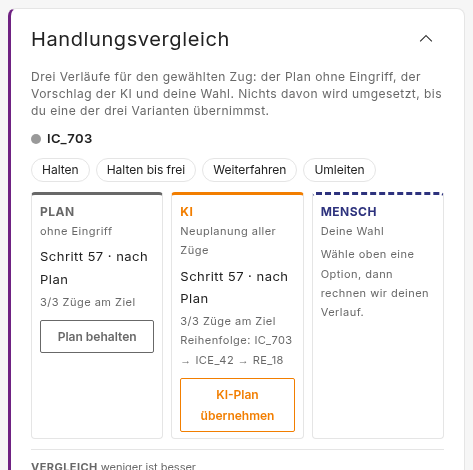
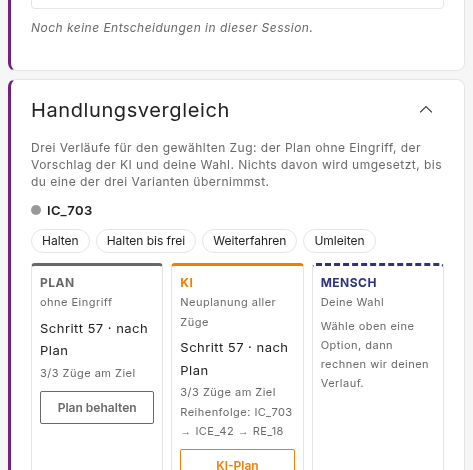
docs(plans): retake the after pictures with the reflection in the decision log.
After pictures 1-4, 6 and 7 on plan-b-p01 with the log above
«Handlungsvergleich»; the plan records Q13 revisited (below it, the log was
out of view right after a decision), the S22-S24 results and the steps as
built. The pictures script finds the reflection in either panel and
scrolls an element into view for its picture, then back.

diff --git a/docs/plans/reflection-inline.md b/docs/plans/reflection-inline.md
@@ -16,8 +16,8 @@
 > revisited on 2026-11-07. Requirements 9-11 (the reflection moves from
 > «Handlungsvergleich» into the decision log, renamed «Entscheidungsprotokoll
 > und Reflexion», in the right column) added on 2026-11-09 by the maintainer,
-> Q13 on them decided the same day (D20-D22), planned as S22-S24; no open
-> questions (§8).
+> Q13 on them decided the same day (D20-D22; Q13 revisited), built in
+> 044bd0b (S22, S23) with the pictures in S24; no open questions (§8).
 > Issue [#160](https://github.com/flatland-association/flatland-ui-hub/issues/160)
 > ("Reflexions Overlay soll Szenario nicht pausieren", @CleverManu), with the
 > requirements as edited on 2026-11-05 ("Beschreibung oben angepasst"). Branch
@@ -68,7 +68,10 @@
 | S20, 18 | Code comments point at the plan's sections and decisions, not at the issue or its findings | docs | low | ba64e47 |
 | — | Retake the after pictures with all questions and Plan B's log open, and record S14-S20 as built | docs | low | 473e9e8, 1d207f7 |
 | S21, 25 | The plan, the logging doc and the code this PR adds say ZWL, not Zug-Weg; the logged view type `zug-weg-diagramm` stays and is named as the ZWL's (#173, D19) | docs | low | 6cb438b |
-| — | Record D19 and the check against #173's kept ids | docs | low | the commit that adds this row |
+| — | Record D19 and the check against #173's kept ids | docs | low | 692e4c7 |
+| — | Plan S22-S24 for requirements 9-11 (Q13), resolve findings 25 and 26, record 27 | docs | low | 3d18bcc |
+| S22, S23 | The reflection is asked in «Entscheidungsprotokoll und Reflexion», below its entries, not in «Handlungsvergleich»; the log moves to the right column, above «Handlungsvergleich» (Q13 revisited) | feat | medium | 044bd0b |
+| S24 | Retake the after pictures with the reflection in the decision log, record Q13 revisited and the results | docs | low | the commit that adds this row |
 
 S1-S5 and S7 share files and hunks, so they went in as one commit, f977f7c,
 with the message "feat(reflection): ask the reflection in «Handlungsvergleich»
@@ -83,13 +86,10 @@ reflection is shown."
 
 #### Remaining
 
-S22-S24 are open (requirements 9-11, Q13); the follow-ups are not in this PR (§1.3).
+No open steps; the follow-ups are not in this PR (§1.3).
 
 | ID | Description | Category | Severity | Commit message |
 |---|---|---|---|---|
-| S22 | The reflection of a reason tour is asked in the decision log, below its entries, not in «Handlungsvergleich» | feat | medium | feat(reflection): ask the reflection in the decision log, not in «Handlungsvergleich». |
-| S23 | The decision log moves to the right column, below «Handlungsvergleich», titled «Entscheidungsprotokoll und Reflexion» | feat | medium | feat(layout): move the decision log to the right column as «Entscheidungsprotokoll und Reflexion». |
-| S24 | Retake the after pictures with the reflection in the log | docs | low | docs(plans): retake the after pictures with the reflection in the decision log. |
 | — | Follow-up: keep a typed but unsent reflection when switching to another one | feat | low | — |
 | — | Follow-up: require a reason chip for «Nein» too (decided against for now) | feat | low | — |
 | — | Follow-up: show open reflections in a replay | feat | low | — |
@@ -184,17 +184,17 @@ Reused concepts:
 |---|---|---|---|---|
 | `SessionStore` (rationale part) | Holds the decisions that wait for a reason and records the reason on the decision. Not where the reason is asked, and not which panel shows it. | 🟨 modified: in reason tours keeps every open reflection, not one; reopens one by decision; stamps when it was answered; asks only where a place can show it (S10). | – | – |
 | `OperatorModelBridge` | Reports decisions to the operator model once their reflection is settled. Not where a reflection is asked or shown. | 🟨 modified: holds back every open decision, not only the shown one (finding 1). | – | – |
-| `ProposalCompareComponent` | Compares plan, AI and own choice for a train and applies one. Not where past decisions are listed (the decision log). | 🟨 modified: new title; showed the open reflection at its top in a tour that asks for reasons (S3), planned (S22, D20): no longer, the log does. | <img src="reflection-inline/before-3-panel.png" width="260"> | <img src="reflection-inline/after-3-panel.png" width="260"> |
+| `ProposalCompareComponent` | Compares plan, AI and own choice for a train and applies one. Not where past decisions are listed (the decision log). | 🟨 modified: new title; showed the open reflection at its top in a tour that asks for reasons (S3), since S22 (D20) no longer, the log does. | <img src="reflection-inline/before-3-panel.png" width="260"> | <img src="reflection-inline/after-3-panel.png" width="260"> |
 | `ReflectionPromptComponent` | Asks the reflection for the shown decision. Not where it is placed. | 🟨 modified: names the course actually taken (§2, related bug); planned (S12, Q12 a): shows all its questions, without «Weitere Fragen», in every reason tour. | <img src="reflection-inline/before-2-dialog-text.png" width="260"> (in the dialog) | <img src="reflection-inline/after-2-dialog-text.png" width="260"> (in the decision panel; in the log from S22) |
-| `DecisionLogPanelComponent` | Lists the run's decisions and, in a tour that asks for reasons, asks the reflection of one of them below the list. Not where a decision is taken (the decision panel). | 🟨 modified: open reflections are marked, counted next to the toggle, and can be reopened; highlighted when finishing is refused; planned (S22, S23): the reflection is answered here, below the entries, and the panel is titled «Entscheidungsprotokoll und Reflexion». | <img src="reflection-inline/before-4-log.png" width="200"> | <img src="reflection-inline/after-4-log.png" width="200"> |
+| `DecisionLogPanelComponent` | Lists the run's decisions and, in a tour that asks for reasons, asks the reflection of one of them below the list. Not where a decision is taken (the decision panel). | 🟨 modified: open reflections are marked, counted next to the toggle, and can be reopened; highlighted when finishing is refused; since S22 and S23: the reflection is answered here, below the entries, and the panel is titled «Entscheidungsprotokoll und Reflexion». | <img src="reflection-inline/before-4-log.png" width="200"> | <img src="reflection-inline/after-4-log.png" width="200"> |
 | `TourReasonDialogComponent` | The modal reflection that pauses the run. | 🟥 removed. | <img src="reflection-inline/before-1-dialog.png" width="320"> | – (removed) |
 | `TourGuideComponent` | Leads through the tour's steps. Not where a scenario is finished in an experiment run (the toolbar). | 🟨 modified: «Reflexion öffnen» reopens the newest open reflection, now in the panel (the log from S22); «Schicht beenden» is refused while reflections are open. | <img src="reflection-inline/before-5-guide.png" width="360"> | <img src="reflection-inline/after-5-guide.png" width="360"> |
 | `AppComponent.finishDemoMode` / `ToolbarComponent` | Finishes a scenario or tour leg from the toolbar. Not where the reflection is asked. | 🟨 modified: refuses while reflections are open, and says so next to the button. | <img src="reflection-inline/before-6-finish.png" width="360"> | <img src="reflection-inline/after-8-toolbar-refused.png" width="360"> (finish refused) |
 | `TourBriefing` / `TourContextService` | Describe a tour and answer what it asks for (reasons, debrief, sandbox, …). Not where the run is paused (`AppComponent`). | 🟨 modified: a tour can ask for the run to pause while a reflection is shown (§4.7). | – | – |
 | `RationaleCaptureComponent` | The short "why?" prompt with reason chips, in the Recommendation panel and the Co-Learning reflection panel, for sessions that are not a reason tour. Not the reflection of a reason tour (`ReflectionPromptComponent`). | 🟨 modified (S8, S9): starts empty for a new decision, and names the course actually taken; it still asks about the latest decision as on `main` (finding 4). | <img src="reflection-inline/before-9-rationale-capture.png" width="220"> | <img src="reflection-inline/after-9-rationale-capture.png" width="220"> |
-| `AppComponent.reflectionPlaceInLayout` | Says whether the active layout has a panel that can show a "why?", expanded or collapsed. Not which one shows it (D15), and not the reflection itself (`SessionStore`). | 🟩 added (S10): a decision asks a "why?" only where the participant can see it; planned (S22): in a reason tour the decision log is the place, not «Handlungsvergleich». | – | –
+| `AppComponent.reflectionPlaceInLayout` | Says whether the active layout has a panel that can show a "why?", expanded or collapsed. Not which one shows it (D15), and not the reflection itself (`SessionStore`). | 🟩 added (S10): a decision asks a "why?" only where the participant can see it; since S22: in a reason tour the decision log is the place, not «Handlungsvergleich». | – | –
 | `preset-plan-b` (`PLAN_B_UI`) | Plan B's layout and the UI items it removes or collapses. Not the deployment-wide items (`ui-config.json`). | 🟨 modified (S13, D4): the decision log starts open, so the participant sees its entries without opening them. | – | – |
-| `preset-plan-b`, `preset-colearning-interview` (columns) | Where the reason tours' panels sit. Not which UI items a condition removes (`PLAN_B_UI`). | 🟨 planned (S23, D21): the decision log moves from the left column to the right one, below «Handlungsvergleich». | – | – |
+| `preset-plan-b`, `preset-colearning-interview` (columns) | Where the reason tours' panels sit. Not which UI items a condition removes (`PLAN_B_UI`). | 🟨 modified (S23, D21): the decision log moves from the left column to the right one, between «Lage: Risiko & Auswirkung» and «Handlungsvergleich». | – | – |
 
 Pictures from `plan-b-p01`, leg 1, Plan B deployment config, except
 `RationaleCaptureComponent`: `preset-colearning-study3` (English), after
@@ -237,10 +237,11 @@ The code keeps no list of its own; these become comments at the places named.
   different forms (D15, finding 19).
 - Where no place can show a "why?", the decision is logged without a reason
   (Q9; S10).
-- The log sits at the bottom of the right column (D21). A reflection that
-  appears is scrolled into view inside the log only (`scrollIntoPanel`,
-  finding 9); when the log itself is below the visible part of the column,
-  the participant scrolls the column.
+- A reflection that appears is scrolled into view inside the log only
+  (`scrollIntoPanel`, finding 9), not the column around it. The log sits
+  above «Handlungsvergleich» so that it is in view as the reflection opens
+  (D21); on a screen too low for «Lage» and the log, the participant
+  scrolls the column.
 - «Nein» without a reason chip counts as answered (Q2, D12), so requirement 4
   can be met without giving a reason. The record shows it:
   `hypothesisResponse: 'no'` and an empty `rationale`.
@@ -446,7 +447,7 @@ All decisions are ✅: D4, D5 and D10-D13 from the answers to Q1-Q5 (D4 revised 
 | D18 | ✅ The reflection of a reason tour shows all its questions (reason chips, gut feeling, missing information, drawback), in the order drawn per decision; «Weitere Fragen» goes. For every reason tour, not only Plan B; `reflectionQuestionLimit` then only applies to the Co-Learning reflection panel (decided 2026-11-07 by the maintainer, Q12 a; S12) | Participants overlooked the collapsed question (finding 23); one rule for every reason tour (D13), no new setting |
 | D19 | ✅ `detail.centerView` logs the centre tab by its widget type, as stored: `zug-weg-diagramm` for the ZWL, not a new `zwl`. The same value as `panel.view-tabs.tab` and the layouts; #173 keeps the stored and logged ids until the study is over (its D1), and renames them all at once then. Prose says ZWL (#173's D3) (decided 2026-11-09 by the maintainer, finding 25; S21) | A second name for the same widget in the logs would need a mapping in every analysis until #173's rename, and again after it |
 | D20 | ✅ A reason tour's reflection is shown and answered in the decision log, below its entries, and no longer in «Handlungsvergleich». One at a time: a new decision shows its reflection at once if none is shown; otherwise it only joins the open ones and their count (D3 unchanged). «Reflexion nachtragen» and the guide's «Reflexion öffnen» show the chosen one there (decided 2026-11-09 by the maintainer, requirement 10, Q13 a; S22) | The reflection opened above the decision panel's options and did not match them ([PR comment](https://github.com/flatland-association/flatland-ui-hub/pull/176#issuecomment-6734371702), finding 26); in the log it sits with the decision it is about and the button that brings it back |
-| D21 | ✅ The decision log moves to the right column, below «Handlungsvergleich», in both reason-tour layouts (`preset-plan-b`, `preset-colearning-interview`); `preset-guide-mode-light` has it on the right already (decided 2026-11-09 by the maintainer, requirement 11, Q13 b; S23) | Top to bottom: assess, decide, reflect. Answering is acting, and the zone rule keeps the left column for reading |
+| D21 | ✅ The decision log moves to the right column, between «Lage: Risiko & Auswirkung» and «Handlungsvergleich», in both reason-tour layouts (`preset-plan-b`, `preset-colearning-interview`); `preset-guide-mode-light` has it on the right already (decided 2026-11-09 by the maintainer, requirement 11, Q13 b; revised the same day, Q13 revisited) | Answering is acting, and the zone rule keeps the left column for reading. Above «Handlungsvergleich», not below: below it the log got almost no height at 1600×1000 and the reflection opened out of view (Q13 revisited) |
 | D22 | ✅ Title: de «Entscheidungsprotokoll und Reflexion», en «Decision log and reflection», fr «Journal des décisions et réflexion», wherever the log is shown, as the wording of `panels.decisionLog` (key and click id stay). Texts that only mention the log («… im Entscheidungsprotokoll markiert», the guide hints) keep the short name (decided 2026-11-09 by the maintainer, requirement 9; S23); the French one goes to a native reviewer | One name for one panel (requirement 9: everywhere, not only in reason tours); AGENTS.md keeps click ids; the full title in running text reads badly |
 
 ## 4. Design
@@ -542,7 +543,8 @@ All decisions are ✅: D4, D5 and D10-D13 from the answers to Q1-Q5 (D4 revised 
   «Offene Reflexionen anzeigen» stay; a participant can still close the
   entries. The verb `collapsedByDefault` stays for other conditions.
 - Planned in S23 (D21): `preset-pb-decisions` and `preset-ci-decisions` move
-  from the left column to the end of the right one, after the decision panel,
+  from the left column to the right one, between «Lage» and the decision
+  panel (D21),
   with their ids, `expanded` and `minHeight` unchanged; their comments say
   why (the reflection is answered there).
 
@@ -578,8 +580,10 @@ All decisions are ✅: D4, D5 and D10-D13 from the answers to Q1-Q5 (D4 revised 
   «Handlungsvergleich» is translated as well.
 - Planned in S23 (D22): `panels.decisionLog`: de «Entscheidungsprotokoll und
   Reflexion», en «Decision log and reflection», fr «Journal des décisions et
-  réflexion». `widget-catalog.ts`'s name likewise; `STOCK_PANEL_TITLES` maps
-  the new German and English titles to the same key, next to the old ones.
+  réflexion». `STOCK_PANEL_TITLES` maps the new German and English titles to
+  the same key, next to the old ones. `widget-catalog.ts` keeps its name
+  "Decision Log & Accountability Strip": it is the internal widget name of
+  the gallery and the UI-config labels, which stay English (AGENTS.md).
   The preset `title:` strings stay (lookup keys). `toolbar.reflectionsMissing`
   and the guide hints keep the short name (D22).
 
@@ -769,9 +773,9 @@ asked for.
 | `frontend/src/app/core/demo/tour-briefings.ts` | `reasonDialog` doc comment; hints with the new title; the `reflect` hint without the pause (finding 13); `pauseOnReflection` (S7); S22: the `reflect` hint (de, en) says the decision log asks for the reason |
 | `frontend/src/app/core/demo/tour-context.service.ts` | `pauseOnReflection` (S7); S17: `refuseFinish()` |
 | `frontend/src/app/app.component.spec.ts` | the reflection pause: pauses on show, resumes on close only if it paused, not in Director, not after the shift review (S7); S10: a place in the system layout, in presets with and without one, and «Handlungsvergleich» only in a reason tour; S22: the decision log instead |
-| `frontend/src/app/core/widgets/widget-catalog.ts` | the panel's name; S23: the log's name |
+| `frontend/src/app/core/widgets/widget-catalog.ts` | the panel's name |
 | `frontend/src/app/core/i18n/panel-titles.ts` | «Handlungsvergleich» → `panels.planAiHuman`, next to the old title; S23: «Entscheidungsprotokoll und Reflexion» and "Decision log and reflection" → `panels.decisionLog` |
-| `frontend/src/app/core/layout/layout-presets.ts` | the interview preset's comment: the reason is asked in the decision panel; S13: `PLAN_B_UI` without `collapsedByDefault`, and the comments on it and on `preset-pb-decisions`; S23: `preset-pb-decisions` and `preset-ci-decisions` to the right column, below the decision panel (D21) |
+| `frontend/src/app/core/layout/layout-presets.ts` | the interview preset's comment: the reason is asked in the decision panel; S13: `PLAN_B_UI` without `collapsedByDefault`, and the comments on it and on `preset-pb-decisions`; S23: `preset-pb-decisions` and `preset-ci-decisions` to the right column, above the decision panel (D21) |
 | `frontend/src/app/core/config/ui-config.service.spec.ts` | S13: Plan B's block leaves the decision log open; a condition can still collapse it |
 | `docs/plans/configurable-ui-plan.md` | S13: item 2 under Plan B, "collapsed" becomes "open since #160" |
 | `frontend/public/i18n/{de,en,fr}.json` | new title; S23: `panels.decisionLog` (D22); new keys (de / en / fr): `log.reflectionOpen` «Reflexion nachtragen» / "Add reflection" / «Ajouter la réflexion», `log.reflectionDone` «Reflexion erfasst» / "Reflection recorded" / «Réflexion enregistrée», `log.openCount` «{{n}} offen» / "{{n}} open" / «{{n}} ouverte(s)», `log.showOpenReflections` «Offene Reflexionen anzeigen» / "Show open reflections" / «Afficher les réflexions ouvertes», `toolbar.reflectionsMissing` «Noch {{n}} Entscheidung(en) ohne Reflexion. …» / "{{n}} decision(s) still without a reflection. …" / «Encore {{n}} décision(s) sans réflexion. …»; `tourUi.reason.lead`/`.note` deleted; S12: `reflectionPrompt.more` deleted |
@@ -806,11 +810,11 @@ asked for.
   flag it counts on (picture 1).
 - After pictures with the script, prefix `after`, next to the before ones.
 - S22-S24 (D20-D22), on `plan-b-p01`, leg 1, and the interview tour: the log
-  is the last panel of the right column and titled «Entscheidungsprotokoll
+  is the second panel of the right column and titled «Entscheidungsprotokoll
   und Reflexion»; a decision in «Handlungsvergleich» shows the reflection
   below the log's entries and none in «Handlungsvergleich»; a second decision
   only raises the open count; «Reflexion nachtragen» shows the chosen one
-  there; the refused finish highlights the entries above it. S24 retakes
+  there; the refused finish highlights the open entry. S24 retakes
   after pictures 1-4, 7 and 8 and the host pictures of §9.
 - S8: a spec that a newer decision empties the short "why?". S9: a spec for
   the label after «Plan behalten». S10: specs that a decision asks a "why?"
@@ -829,7 +833,7 @@ tree:
 
 | | Before (`main` 1e33088) | After (this branch) |
 |---|---|---|
-| Where the reflection is | dialog over the screen | top of «Handlungsvergleich» |
+| Where the reflection is | dialog over the screen | top of «Handlungsvergleich» (S3); below the entries of «Entscheidungsprotokoll und Reflexion», between «Lage» and «Handlungsvergleich» (S22, S23) |
 | Run while it is open | paused (step 8 → 8) | runs (step 10 → 11) |
 | Label after «Plan behalten» | "Umleiten" | "Weiterfahren" |
 | Decision log | count only | "1 offen", «Offene Reflexionen anzeigen», «Reflexion nachtragen» on the entry |
@@ -872,6 +876,20 @@ app:
 - S8 and S10: specs only. Not checked in the running app: Recommendation
   study 3 asking nothing after an override.
 
+**S22-S24 (2026-11-09).** The frontend suite passes with 716 specs (1
+skipped); `i18n:check`, `lint:styles` and the production build pass, with
+the same two warnings. In the running app, `plan-b-p01`, leg 1, Plan B
+deployment config, 1600×1000: the reflection opens in the decision log, not
+in «Handlungsvergleich», and the run goes on (step 9 → 11); the refused
+finish names one open reflection and highlights its entry. With the log
+below «Handlungsvergleich» (Q13 a) it was out of view right after the
+decision; above it (Q13 revisited) the log and the reflection are in view,
+and the options are one scroll down. The title is cut to
+«Entscheidungsprotokoll und Reflex…» in the 30 % column (D22). After
+pictures 1-4, 6 and 7 are retaken; 5 and 8 are unchanged.
+`scripts/docshots-reflection-inline.mjs` finds the reflection in either
+panel and scrolls an element into view for its picture, then back.
+
 Not yet checked in the running app: a second decision while one is open,
 finishing after a bare «Nein», the exported record's `reflectedAt`, leg 2,
 `colearning-experiment`, the interview tour and a Recommendation tour. The
@@ -894,15 +912,16 @@ specs cover the first three.
 | ✅ | S11 | Log a waiting reflection as `session` with `detail.reflection`, in every mode; specs for the screen log and a click's `view`; the table in `docs/experiment-logging.md` (finding 3, D17) | - |
 | ✅ | S12 | The reflection shows all its questions, without «Weitere Fragen», in every reason tour; spec; retake `after-2-dialog-text.png` (finding 23, D18) | - |
 | ✅ | S13 | Plan B's decision log starts open; spec; retake `after-4-log.png` (finding 24, D4) | - |
-| | S22 | The reflection of a reason tour in the decision log, below its entries; «Handlungsvergleich» without it; the log as a reason tour's place (`reflectionPlaceInLayout`, S18's spec); the `reflect` hints; specs (D20) | - |
-| | S23 | The log in the right column, below «Handlungsvergleich», in both reason-tour layouts; title «Entscheidungsprotokoll und Reflexion» (de, en, fr, catalog, `STOCK_PANEL_TITLES`); S18's spec checks the column (D21, D22) | - |
-| | S24 | Retake the after pictures and the host pictures; this plan's results | S22, S23 |
+| ✅ | S22 | The reflection of a reason tour in the decision log, below its entries; «Handlungsvergleich» without it; the log as a reason tour's place (`reflectionPlaceInLayout`, S18's spec); the `reflect` hints; specs (D20) | - |
+| ✅ | S23 | The log in the right column, above «Handlungsvergleich», in both reason-tour layouts; title «Entscheidungsprotokoll und Reflexion» (de, en, fr, `STOCK_PANEL_TITLES`); S18's spec checks the column (D21, D22) | - |
+| ✅ | S24 | Retake the after pictures (the host pictures show other places and stay); this plan's results | S22, S23 |
 
 Each step passes the CI checks on its own. S1-S5 and S7 went in as one
 commit (Carried out). Finding 13's fix is in S3, which removes the pause.
 Findings 21, 12 (with 10), 20 and 3 are fixed in S8-S11, 23 and 24 in S12
 and S13, 5-9, 11, 18 and 22 in S14-S20, 25 in S21 (§7.1); 19, 26 and 27
-are follow-ups. S22-S24 build requirements 9-11 (Q13).
+are follow-ups. S22-S24 build requirements 9-11 (Q13); S22 and S23 share hunks and went in
+as one commit, 044bd0b.
 
 ### 7.1 Refactorings and cleanup ✅
 
@@ -924,7 +943,8 @@ refactoring, then tests and comments.
 
 - ✅ ~~**(Q13) Where is the reflection asked, now that it leaves «Handlungsvergleich»?**~~
   **Decided 2026-11-09** by the maintainer (requirements 9-11): when it
-  appears a) (D20, S22); where in the right column a) (D21, S23). The
+  appears a) (D20, S22); where in the right column a), revisited the same
+  day to b) (D21, S23). The
   maintainer asked to move the log to the right column, rename it
   «Entscheidungsprotokoll und Reflexion», and show and answer the reflection
   there, below the entries, and no longer in «Handlungsvergleich»; in
@@ -938,6 +958,14 @@ refactoring, then tests and comments.
     decide, reflect; the form may open below the visible part of the column
     (§1.1). b) Between «Lage» and «Handlungsvergleich». c) At the top.
     Each is a reordering of the preset's panels.
+  - **Revisited 2026-11-09, b).** Built as a), the pictures at 1600×1000
+    showed the log below the visible part of the column right after a
+    decision, with almost no height, so the reflection opened out of view.
+    Of b), scrolling the column to the log (the movement finding 9
+    removed), shrinking the panels above, or another place for the log,
+    the maintainer chose b): both the reflection and the options stay in
+    view without anything moving on its own; the options move down by the
+    log's height.
 
 - ✅ ~~**(Q12) Does the reflection show all its questions?**~~ **Decided
   2026-11-07** by the maintainer: a), in every reason tour (D18, S12).
